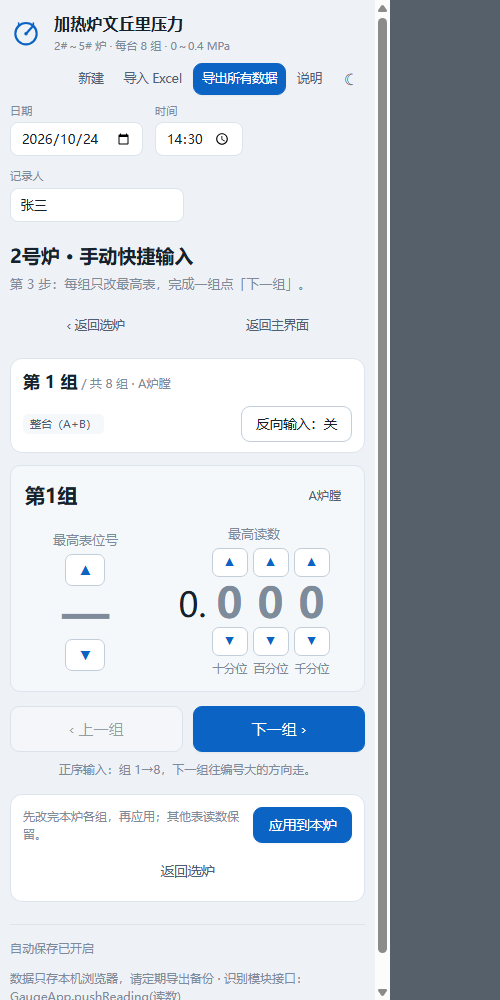
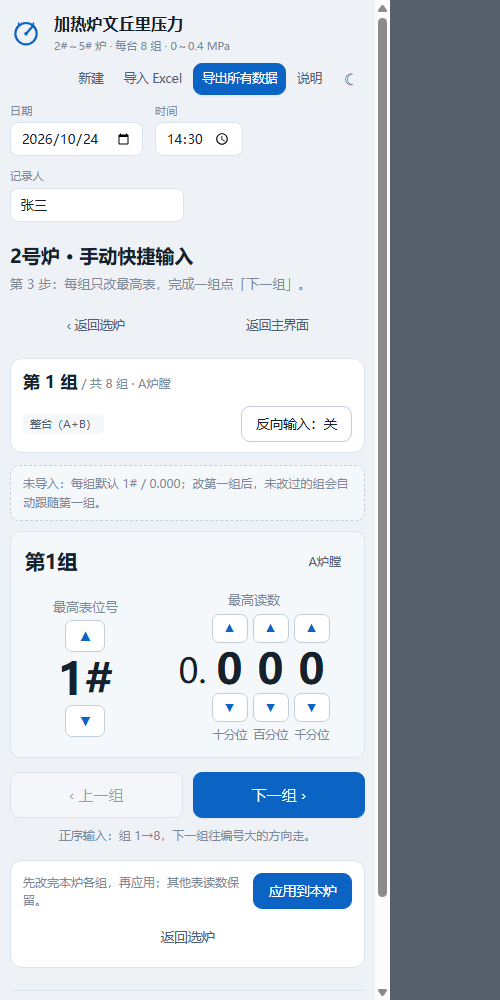
feat: 未导入炉子默认最高表并跟随第一组

diff --git a/读表软件_手机版.html b/读表软件_手机版.html
@@ -616,6 +616,18 @@ body {
   margin: 0 auto;
 }
 
+.quick-default-hint {
+  max-width: 760px;
+  margin: 0 auto 10px;
+  padding: 8px 12px;
+  border: 1px dashed var(--line-strong);
+  border-radius: 9px;
+  background: var(--surface-2);
+  color: var(--muted);
+  font-size: 12px;
+  line-height: 1.6;
+}
+
 .quick-group-single {
   padding: 20px;
   min-height: 220px;
@@ -2060,7 +2072,7 @@ body.furnace-mode .app-shell { padding-top: 8px; }
         <li>进炉子页默认暂停，点中间大按钮「开始识别」后才接收识别读数；再点变成「暂停识别」。</li>
         <li>指定起点：点下面组内任意一块表，再点「开始识别」，就从这块开始；识别中点击某格会自动暂停。</li>
         <li>「上一组 / 下一组」在大按钮两侧；下一行是「跳过（送检）」和「剔除本块」。</li>
-        <li><b>日常快捷更新（视觉识别备用）</b>：首页「手动快捷输入」→ 导入页粘贴方式1并解析，或「不导入，直接手动」→ 选炉页始终显示全部 2/3/4/5 号炉，已导入的正常显示、未导入的虚线显示但也能点 → 单炉页一次改一组，点「下一组」；位号和读数用大箭头调，可开「反向输入」；最后「应用到本炉」。只更新最高表，其他表读数保留。</li>
+        <li><b>日常快捷更新（视觉识别备用）</b>：首页「手动快捷输入」→ 导入页粘贴方式1并解析，或「不导入，直接手动」→ 选炉页始终显示全部 2/3/4/5 号炉，已导入的正常显示、未导入的虚线显示但也能点 → 单炉页一次改一组，点「下一组」；未导入的每组默认 1#、第一组 0.000，后组跟随第一组；位号和读数用大箭头调，可开「反向输入」；最后「应用到本炉」。只更新最高表，其他表读数保留。</li>
         <li>点格子输入读数；<b>回车</b>跳到下一块，<b>方向键</b>按位置跳格，<b>X</b> 剔除当前读数，<b>Esc</b> 退出输入框。</li>
         <li>读数支持全角数字、带单位（0.170 MPa）、逗号小数点。</li>
         <li>识别模块识别到一个读数就调用一次 <code>GaugeApp.pushReading(0.170)</code>，会顺序填入当前识别位置；也可以点「识别填入」粘贴一批结果。</li>
@@ -4276,7 +4288,9 @@ body.furnace-mode .app-shell { padding-top: 8px; }
 
   function quickEmptyRows(n) {
     var out = [];
-    for (var i = 0; i < n; i++) out.push({ gauge: null, value: null });
+    for (var i = 0; i < n; i++) {
+      out.push({ gauge: 1, value: 0, synced: i !== 0 });
+    }
     return out;
   }
 
@@ -4326,7 +4340,8 @@ body.furnace-mode .app-shell { padding-top: 8px; }
         rows: (pf.rawLines || []).map(function (r) {
           return {
             gauge: r.gauge == null ? null : Number(r.gauge),
-            value: r.value == null ? null : Number(r.value)
+            value: r.value == null ? null : Number(r.value),
+            synced: false
           };
         })
       };
@@ -4391,6 +4406,7 @@ body.furnace-mode .app-shell { padding-top: 8px; }
     var f = quickFind(id);
     if (!f || !f.rows[rowIndex]) return;
     var row = f.rows[rowIndex];
+    if (!f.imported && rowIndex > 0) row.synced = false;
     var pg = f.perGroup;
     if (row.gauge == null) row.gauge = delta > 0 ? 1 : pg;
     else row.gauge = Math.max(1, Math.min(pg, row.gauge + delta));
@@ -4405,11 +4421,17 @@ body.furnace-mode .app-shell { padding-top: 8px; }
     var f = quickFind(id);
     if (!f || !f.rows[rowIndex]) return;
     var row = f.rows[rowIndex];
+    if (!f.imported && rowIndex > 0) row.synced = false;
     if (row.gauge == null) row.gauge = 1;
     var milli = row.value == null ? 0 : Math.round(row.value * 1000);
     var step = pos === 0 ? 100 : pos === 1 ? 10 : 1;
     milli = Math.max(0, Math.min(400, milli + delta * step));
     row.value = milli / 1000;
+    if (!f.imported && rowIndex === 0) {
+      f.rows.forEach(function (r, i) {
+        if (i > 0 && r.synced) r.value = row.value;
+      });
+    }
     var hadNotice = quick.message || (quick.applyIssues && quick.applyIssues.length);
     quick.message = '';
     quick.applyIssues = [];
@@ -4606,7 +4628,7 @@ body.furnace-mode .app-shell { padding-top: 8px; }
         el('span', { class: 'tag' + (f.imported ? ' ok' : ''), text: f.imported ? '已导入' : '未导入 · 手动' }),
         f.ambiguous ? el('span', { class: 'tag', text: '文本未写炉膛' }) : null
       ]),
-      el('p', { class: 'quick-select-sub', text: f.imported ? '共 ' + f.rows.length + ' 组 · 每组只改最高表' : '共 ' + f.rows.length + ' 组 · 从空白开始手动补最高表' }),
+      el('p', { class: 'quick-select-sub', text: f.imported ? '共 ' + f.rows.length + ' 组 · 每组只改最高表' : '共 ' + f.rows.length + ' 组 · 默认 1# / 0.000，后组跟随第一组' }),
       el('span', { class: 'fc-go', text: f.imported ? '进入 ›' : '手动录入 ›' })
     ]);
   }
@@ -4708,6 +4730,13 @@ body.furnace-mode .app-shell { padding-top: 8px; }
       ])
     ]);
     host.appendChild(bar);
+
+    if (!f.imported) {
+      host.appendChild(el('div', {
+        class: 'quick-default-hint',
+        text: '未导入：每组默认 1# / 0.000；改第一组后，未改过的组会自动跟随第一组。'
+      }));
+    }
 
     if (quick.message || (quick.applyIssues && quick.applyIssues.length)) {
       host.appendChild(quickNotices());

diff --git a/js/app.js b/js/app.js
@@ -257,7 +257,9 @@
 
   function quickEmptyRows(n) {
     var out = [];
-    for (var i = 0; i < n; i++) out.push({ gauge: null, value: null });
+    for (var i = 0; i < n; i++) {
+      out.push({ gauge: 1, value: 0, synced: i !== 0 });
+    }
     return out;
   }
 
@@ -307,7 +309,8 @@
         rows: (pf.rawLines || []).map(function (r) {
           return {
             gauge: r.gauge == null ? null : Number(r.gauge),
-            value: r.value == null ? null : Number(r.value)
+            value: r.value == null ? null : Number(r.value),
+            synced: false
           };
         })
       };
@@ -372,6 +375,7 @@
     var f = quickFind(id);
     if (!f || !f.rows[rowIndex]) return;
     var row = f.rows[rowIndex];
+    if (!f.imported && rowIndex > 0) row.synced = false;
     var pg = f.perGroup;
     if (row.gauge == null) row.gauge = delta > 0 ? 1 : pg;
     else row.gauge = Math.max(1, Math.min(pg, row.gauge + delta));
@@ -386,11 +390,17 @@
     var f = quickFind(id);
     if (!f || !f.rows[rowIndex]) return;
     var row = f.rows[rowIndex];
+    if (!f.imported && rowIndex > 0) row.synced = false;
     if (row.gauge == null) row.gauge = 1;
     var milli = row.value == null ? 0 : Math.round(row.value * 1000);
     var step = pos === 0 ? 100 : pos === 1 ? 10 : 1;
     milli = Math.max(0, Math.min(400, milli + delta * step));
     row.value = milli / 1000;
+    if (!f.imported && rowIndex === 0) {
+      f.rows.forEach(function (r, i) {
+        if (i > 0 && r.synced) r.value = row.value;
+      });
+    }
     var hadNotice = quick.message || (quick.applyIssues && quick.applyIssues.length);
     quick.message = '';
     quick.applyIssues = [];
@@ -587,7 +597,7 @@
         el('span', { class: 'tag' + (f.imported ? ' ok' : ''), text: f.imported ? '已导入' : '未导入 · 手动' }),
         f.ambiguous ? el('span', { class: 'tag', text: '文本未写炉膛' }) : null
       ]),
-      el('p', { class: 'quick-select-sub', text: f.imported ? '共 ' + f.rows.length + ' 组 · 每组只改最高表' : '共 ' + f.rows.length + ' 组 · 从空白开始手动补最高表' }),
+      el('p', { class: 'quick-select-sub', text: f.imported ? '共 ' + f.rows.length + ' 组 · 每组只改最高表' : '共 ' + f.rows.length + ' 组 · 默认 1# / 0.000，后组跟随第一组' }),
       el('span', { class: 'fc-go', text: f.imported ? '进入 ›' : '手动录入 ›' })
     ]);
   }
@@ -689,6 +699,13 @@
       ])
     ]);
     host.appendChild(bar);
+
+    if (!f.imported) {
+      host.appendChild(el('div', {
+        class: 'quick-default-hint',
+        text: '未导入：每组默认 1# / 0.000；改第一组后，未改过的组会自动跟随第一组。'
+      }));
+    }
 
     if (quick.message || (quick.applyIssues && quick.applyIssues.length)) {
       host.appendChild(quickNotices());

diff --git a/index.html b/index.html
@@ -156,7 +156,7 @@ window.addEventListener('beforeinstallprompt', function (e) {
         <li>进炉子页默认暂停，点中间大按钮「开始识别」后才接收识别读数；再点变成「暂停识别」。</li>
         <li>指定起点：点下面组内任意一块表，再点「开始识别」，就从这块开始；识别中点击某格会自动暂停。</li>
         <li>「上一组 / 下一组」在大按钮两侧；下一行是「跳过（送检）」和「剔除本块」。</li>
-        <li><b>日常快捷更新（视觉识别备用）</b>：首页「手动快捷输入」→ 导入页粘贴方式1并解析，或「不导入，直接手动」→ 选炉页始终显示全部 2/3/4/5 号炉，已导入的正常显示、未导入的虚线显示但也能点 → 单炉页一次改一组，点「下一组」；位号和读数用大箭头调，可开「反向输入」；最后「应用到本炉」。只更新最高表，其他表读数保留。</li>
+        <li><b>日常快捷更新（视觉识别备用）</b>：首页「手动快捷输入」→ 导入页粘贴方式1并解析，或「不导入，直接手动」→ 选炉页始终显示全部 2/3/4/5 号炉，已导入的正常显示、未导入的虚线显示但也能点 → 单炉页一次改一组，点「下一组」；未导入的每组默认 1#、第一组 0.000，后组跟随第一组；位号和读数用大箭头调，可开「反向输入」；最后「应用到本炉」。只更新最高表，其他表读数保留。</li>
         <li>点格子输入读数；<b>回车</b>跳到下一块，<b>方向键</b>按位置跳格，<b>X</b> 剔除当前读数，<b>Esc</b> 退出输入框。</li>
         <li>读数支持全角数字、带单位（0.170 MPa）、逗号小数点。</li>
         <li>识别模块识别到一个读数就调用一次 <code>GaugeApp.pushReading(0.170)</code>，会顺序填入当前识别位置；也可以点「识别填入」粘贴一批结果。</li>

diff --git a/assets/styles.css b/assets/styles.css
@@ -593,6 +593,18 @@ body {
   margin: 0 auto;
 }
 
+.quick-default-hint {
+  max-width: 760px;
+  margin: 0 auto 10px;
+  padding: 8px 12px;
+  border: 1px dashed var(--line-strong);
+  border-radius: 9px;
+  background: var(--surface-2);
+  color: var(--muted);
+  font-size: 12px;
+  line-height: 1.6;
+}
+
 .quick-group-single {
   padding: 20px;
   min-height: 220px;

diff --git a/sw.js b/sw.js
@@ -1,5 +1,5 @@
 /* 加热炉文丘里压力 · PWA Service Worker */
-const CACHE = 'hvp-pwa-v5';
+const CACHE = 'hvp-pwa-v6';
 const CORE = [
   './',
   './index.html',

diff --git a/交接报告_第二阶段.md b/交接报告_第二阶段.md
@@ -2,7 +2,7 @@
 
 > 交接对象：新对话 / 下一位开发者  
 > 工作区：`H:\独石化\日常工作\读表软件开发`  
-> 报告生成时版本：v2.17.0（本报告随代码仓库一起提交）  
+> 报告生成时版本：v2.18.0（本报告随代码仓库一起提交）  
 > 线上地址：<https://hanhaicangnan99.github.io/heater-venturi-reader/>  
 > 代码仓库：<https://github.com/hanhaicangnan99/heater-venturi-reader>
 
@@ -255,6 +255,7 @@ cell = {
 
 1. **导入页**：首页「手动快捷输入」→ 粘贴方式1文本，或「载入当前数据」→「解析文本」；也可「不导入，直接手动」。
 2. **选炉页**：**始终显示全部 2/3/4/5 号炉**；有导入数据的高亮「已导入」，没导入的虚线「未导入 · 手动」，但都可以点进去。
+   - 未导入炉子默认：每组 **1#**，第一组 **0.000**，后面各组默认跟随第一组的数据；某组手动改过后不再跟随。
 3. **单炉逐组页**：
    - 一次只显示一组，位号/读数放大；位号一组箭头，读数十分位/百分位/千分位各一组箭头，支持进位/借位；
    - 4 行未写炉膛时，顶部选 A炉膛/B炉膛；
@@ -363,7 +364,7 @@ GaugeApp.resumeRecognition(4);      // 当前组第5块继续
 ### 当前结果
 
 - **36 项核心逻辑测试全部通过**。
-- **116 项浏览器交互测试全部通过，0 个 JS 错误**。
+- **119 项浏览器交互测试全部通过，0 个 JS 错误**。
 - 单文件版冒烟：`file://` 打开渲染 4 台炉，显示本地文件提示。
 - PWA 线上验证：
   - `manifest.webmanifest` 200，`application/manifest+json`
@@ -551,7 +552,7 @@ GaugeApp.pushReadings([0.183, 0.136, ...]);
 - 表盘检测召回 ≥ 95%（清晰正面视频）；
 - 组/表号顺序正确；反向、送检、暂停不回归；
 - 低置信度可被人工发现并修正；
-- 不破坏现有 36 + 116 测试；
+- 不破坏现有 36 + 119 测试；
 - 现场演示能完整跑完 3号炉一台。
 
 ### 交付物
@@ -618,7 +619,7 @@ README-recognition.md        # 数据/训练/推理说明
 ### 当前限制
 
 - 第一阶段 app 未接入识别模型；相机页只是预览 + 接口。
-- 工作区已有未提交的第二阶段识别试验（`README-recognition.md`、`recognition/`、`models/`）；数据/模型不在本报告 36+116 测试范围内。
+- 工作区已有未提交的第二阶段识别试验（`README-recognition.md`、`recognition/`、`models/`）；数据/模型不在本报告 36+119 测试范围内。
 - 没有后端；全部静态。
 - 没有打印功能。
 - 小数位固定 3 位；量程固定 0～0.4 MPa；大气压 0.1 MPa。
@@ -637,7 +638,7 @@ README-recognition.md        # 数据/训练/推理说明
 当前第一阶段已完成并上线：
 - 线上 PWA：https://hanhaicangnan99.github.io/heater-venturi-reader/
 - 仓库：https://github.com/hanhaicangnan99/heater-venturi-reader
-- 36 项核心测试 + 116 项浏览器测试通过
+- 36 项核心测试 + 119 项浏览器测试通过
 - 录入、绝压比、Excel 导入导出、PWA 都已验收
 
 第二阶段目标：录屏识别演示。
@@ -650,7 +651,7 @@ README-recognition.md        # 数据/训练/推理说明
 - 送检(skip) ≠ 剔除(ex)；
 - 2号炉每组 2 块，3/4/5号炉每组 12 块；
 - 反向是整台炉（组8→1、组内12#→1#）；
-- 不要破坏现有 36 + 116 测试；
+- 不要破坏现有 36 + 119 测试；
 - 识别结果先输出 JSON，再通过 GaugeApp.pushReadings 落地，低置信度必须可人工修正。
 
 第一步不要直接训练模型。先检查工作区有没有 3号炉的视频/照片/真值：
@@ -706,7 +707,7 @@ js/xlsx-read.js               离线读 xlsx
 js/app.js                     界面逻辑 + GaugeApp API
 读表软件_手机版.html          单文件手机版（手动录入用）
 tests/core.test.cjs           36 项核心测试
-tests/make_selftest.cjs       116 项浏览器测试生成器
+tests/make_selftest.cjs       119 项浏览器测试生成器
 tests/check_ui.py             静态一致性检查
 tests/make_singlefile.cjs     单文件生成器
 tests/make_samples.cjs        示例文本/Excel 生成器

diff --git a/README.md b/README.md
@@ -107,6 +107,7 @@
 3. **选炉页**：**始终显示全部 2/3/4/5 号炉**。
    - 有导入数据的炉子正常显示「已导入」；
    - 没导入的炉子虚线显示「未导入 · 手动」，同样可以点进去补；
+   - **未导入炉子的默认值**：每组默认 **1#**，第一组读数 **0.000**，后面各组默认跟随第一组的数据；某组手动改过之后，该组不再跟随；
    - 点需要增补的炉号，进入该炉的 **单炉逐组页**。
 4. **单炉逐组页**：
    - 一次只显示一组，位号和读数都放大；
@@ -122,6 +123,8 @@
 ![快捷输入：选炉页](docs/screenshot-quick-select.png)
 
 ![快捷输入：单炉逐组页](docs/screenshot-quick.png)
+
+![未导入炉子：默认 1# / 0.000，后组跟随第一组](docs/screenshot-quick-empty.png)
 
 ![手机单组页：大号位号和读数](docs/screenshot-quick-mobile.png)
 
@@ -416,13 +419,13 @@ node tests/make_singlefile.cjs
 # HTML/JS/CSS 静态一致性
 python tests/check_ui.py
 
-# 真实浏览器交互自测（116 项）
+# 真实浏览器交互自测（119 项）
 node tests/make_selftest.cjs
 chrome --headless=new --no-sandbox --disable-gpu --user-data-dir=tests/prof ^
   --window-size=1440,1200 --virtual-time-budget=25000 --dump-dom "file:///.../tests/selftest.html"
 ```
 
-当前结果：**36 项单元测试 + 116 项浏览器交互测试全部通过，0 个 JS 错误**；方式2 的数值、圈号、组号/表号、集合管压力和 0.84375 与 `导出文件示例/快捷导出方式2.txt` 一致。
+当前结果：**36 项单元测试 + 119 项浏览器交互测试全部通过，0 个 JS 错误**；方式2 的数值、圈号、组号/表号、集合管压力和 0.84375 与 `导出文件示例/快捷导出方式2.txt` 一致。
 
 单文件版另做了冒烟检查：file:// 打开能正常渲染 4 台炉并显示本地文件提示。
 
@@ -443,6 +446,13 @@ chrome --headless=new --no-sandbox --disable-gpu --user-data-dir=tests/prof ^
 ---
 
 ## 十二、版本
+
+**v2.18.0（2026-10-30）**
+
+- 未导入炉子可当快捷数据界面使用：每组默认 1#，第一组 0.000，后面组跟随第一组
+- 手动改过某组后，该组不再跟随第一组
+- 选炉页和单炉页增加未导入默认值说明
+- 新增 3 项浏览器交互测试（合计 119 项）
 
 **v2.17.0（2026-10-30）**
 
